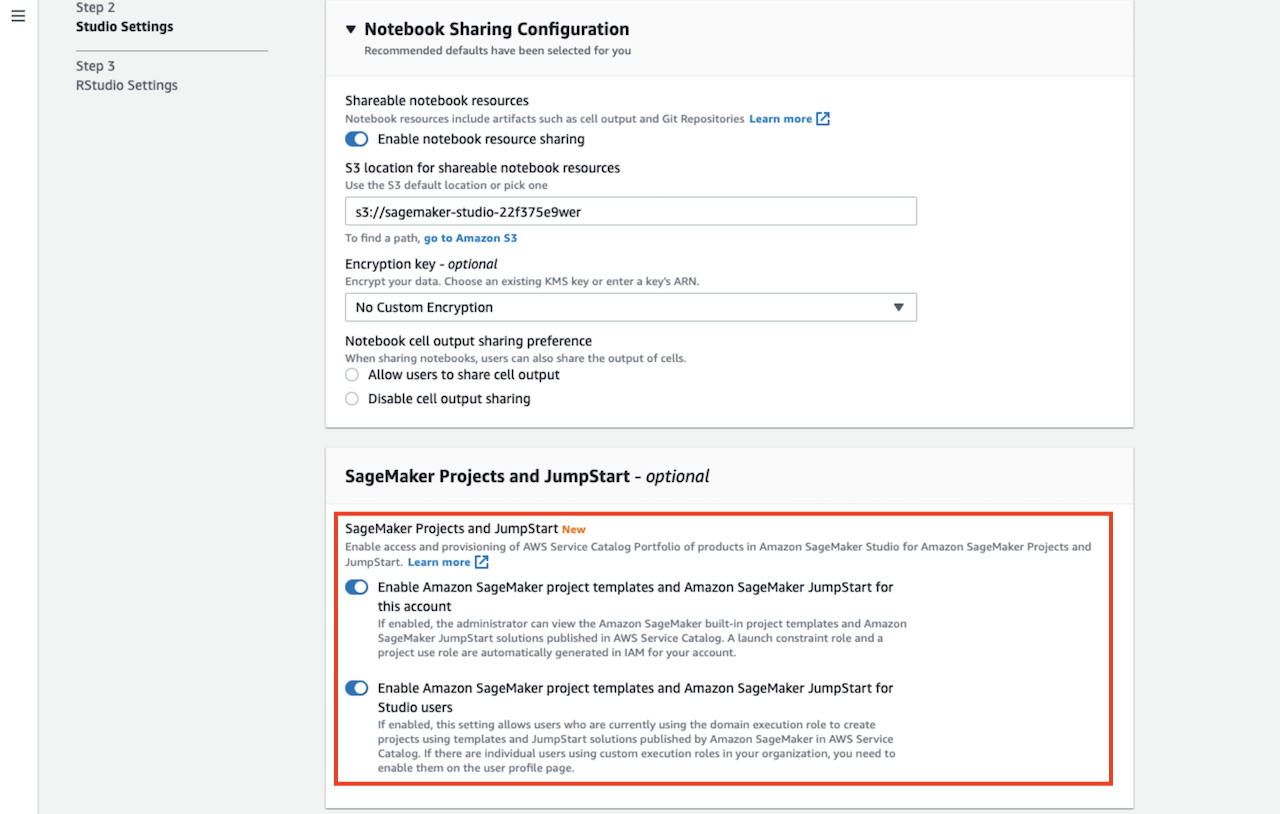
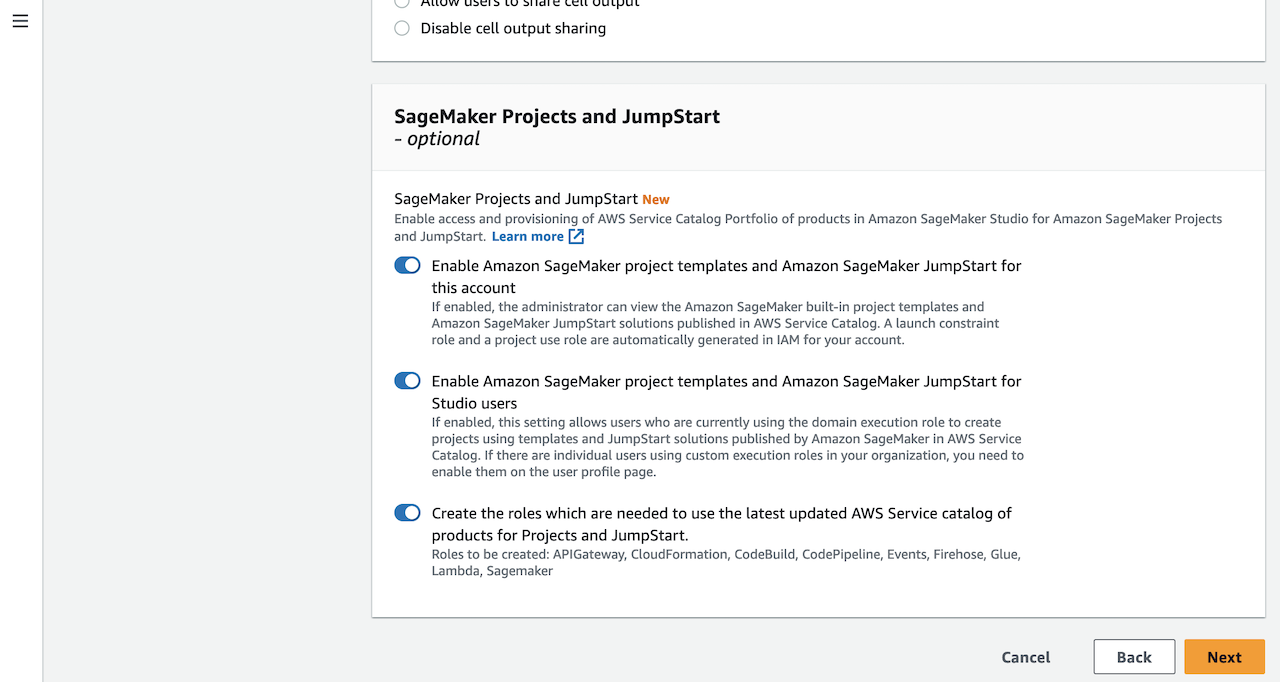
docs(blueprint): translate sagemaker apps instructions (#72)
* docs(blueprint): translate sagemaker apps instructions

* docs(blueprint): fix tiny thing

* docs(blueprint): replace jumpstart activation screenshots

diff --git a/examples/blueprint/apps/README.ko.md b/examples/blueprint/apps/README.ko.md
@@ -1,6 +1,30 @@
 [[English](README.md)] [[한국어](README.ko.md)]
 
 # 애플리케이션
+## SageMaker Studio 프로젝트
+SageMaker Studio에서 프로젝트를 활성화 해야 합니다.
+![aws-sm-svccatal-disabled](../../../images/aws-sm-svccatal-disabled.png)
+![aws-sm-enable-jumpstart](../../../images/aws-sm-enable-jumpstart.png)
+
+## Amazon SageMaker에서 허깅페이스 트랜스포머(Huggingface Transformers) 사용하기
+SageMaker 노트북 인스턴스가 구동되었다면, 여러 분은 AWS 관리 콘솔의 SageMaker 서비스 페이지에서 JupyterLab 또는 Jupyter notebook을 열고 접속할 수 있습니다. 이 예제에서는 Amazon SageMaker에서 처음으로 허깅페이스 트랜스포머 예제를 실행할 때 필요한 자원을 모두 배포할 것입니다. 먼저 아래와 같이 저장소를 여러 분의 노트북 작업환경에 복사합니다. 이제 여러 분은 보다 예제 노트북에 접근할 수 있습니다.
+
+![sagemaker-notebook-huggingface-getting-started](../../../images/sagemaker-notebook-huggingface-getting-started.png)
+
+## Amazon Personalize
+[Amazon Personalize](https://aws.amazon.com/personalize/)는 기계 학습에 대한 전문지식 없더라도 Amazon.com의 실시간 개인화 추천에서 사용하는 기계 학습과 같은 기계 학습 기반의 애플리케이션을 만들 수 있도록 해 줍니다.
+
+Amazon Personalize를 사용하면 개발자가 특정 제품 추천, 개인화된 제품 순위 재지정, 맞춤형 다이렉트 마케팅 등 다양한 개인화 경험을 제공할 수 있는 애플리케이션을 쉽게 구축할 수 있습니다. Amazon Personalize는 엄격한 정적 규칙 기반 추천 시스템을 넘어 사용자 지정 ML 모델을 교육, 조정 및 배포하여 소매, 미디어 및 엔터테인먼트와 같은 업계의 고객에게 고도로 맞춤화된 추천을 제공하는 완전 관리형 기계 학습 서비스입니다.
+SageMaker 노트북 인스턴스가 시작된 후 AWS 관리 콘솔의 SageMaker 서비스 페이지에서 JupyterLab 또는 Jupyter 노트북을 열고 접속할 수 있습니다. 다음은 Amazon Personalize로 첫 번째 캠페인을 구축하는 데 필요한 모든 리소스를 배포하는 이 예입니다. 제공된 노트북은 자체 데이터로 자체 모델을 구축하기 위한 템플릿 역할도 할 수 있습니다. 이 저장소는 여러 분의 실행 환경에 복제되므로 이 접근 방식을 통하여 추가적인 고급 노트북 탐색도 할 수 있습니다. 이 자습서에서는 Amazon Personalize를 사용하여 사용자 지정 데이터 세트, 모델 및 추천 캠페인을 생성하기 위한 환경 구축 과정을 안내합니다. 아래 단계에서는 자체 추천 모델을 구축하고 개선한 다음 모든 리소스를 정리하여 원치 않는 요금이 발생하지 않도록 하는 프로세스를 간략하게 설명합니다. 이제 실습을 수행하려면 아래의 순서를 따라하시길 바랍니다.
+
+1. `1.Building_Your_First_Campaign.ipynb` - Guides you through building your first campaign and recommendation algorithm.
+2. `2.View_Campaign_And_Interactions.ipynb` - Showcase how to generate a recommendation and how to modify it with real time intent.
+3. `Cleanup.ipynb` - Deletes anything that was created so you are not charged for additional resources.
+
+여러 분은 /notebooks 폴더에서 Jupyter 노트북을 다운로드할 수 있습니다. 여기에 있는 실습이 오래 되었거나 잘 동작하지 않는다면 [원본 저장소](https://github.com/aws-samples/amazon-personalize-samples)를 방문하여 업데이트를 확인하십시오.
+
+실습을 마치면 AWS 리소스를 정리해야 합니다. 'Cleanup.ipynb' 노트북의 지침에 따라 SageMaker 노트북을 통해 만든 리소스를 제거합니다. 그런 다음 SageMaker 및 AWS 인프라스트럭처를 삭제할 수 있습니다.
+
 ## 점프스타트 (JumpStart)
 Amazon SageMaker JumpStart는 ML 여정을 가속화하는 데 도움이 될 수 있는 기계 학습(ML) 허브입니다. SageMaker JumpStart를 사용하면 모델 허브에서 사전 훈련된 모델이 포함된 기본 제공 알고리즘에 액세스하여 사전 훈련된 기초 모델로 문서 요약 및 이미지 생성과 같은 태스크를 수행하고 사전 구축된 솔루션으로 일반적인 사용 사례를 해결할 수 있습니다. 또한 ML 모델 및 노트북을 포함한 ML 아티팩트를 조직 내에서 공유하여 ML 모델 구축 및 배포를 가속화할 수 있습니다. 보다 자세한 내용은 [Amazon SageMaker JumpStart](https://aws.amazon.com/ko/sagemaker/jumpstart/) 웹사이트를 참고하시기 바랍니다.
 

diff --git a/examples/blueprint/apps/README.md b/examples/blueprint/apps/README.md
@@ -3,7 +3,7 @@
 # Applications
 ## SageMaker Studio Projects
 ![aws-sm-svccatal-disabled](../../../images/aws-sm-svccatal-disabled.png)
-![aws-sm-svccatal-enabled](../../../images/aws-sm-svccatal-enabled.png)
+![aws-sm-enable-jumpstart](../../../images/aws-sm-enable-jumpstart.png)
 
 ## Huggingface Transformers with Amazon SageMaker
 After a SageMaker notebook instance is launched, you can access and open a JupyterLab or Jupyter notebook in the sagemaker service page of AWS management console. This example that will deploy all the resources you need to run your first hugging face transformers example with Amazon SageMaker. This repository is cloned into the environment so you can explore the more advanced notebooks with this approach as well.
@@ -25,7 +25,7 @@ This tutorial will walk you through building an environment to create a custom d
 
 You can download the Jupyter notebooks from the /notebooks folder. If you have any issues with any of the content here please visit the original [repo](https://github.com/aws-samples/amazon-personalize-samples) for updates.
 
-Whne you finishied the hands-on lab, you have to clean up AWS resources. Follow the instructions of `Cleanup.ipynb` notebook to purge the resource that we made through SageMaker notebook. Then, you can try to destroy SageMaker and AWS infrastructure. For more information, please refer to this.
+Whne you finishied the hands-on lab, you have to clean up AWS resources. Follow the instructions of `Cleanup.ipynb` notebook to purge the resource that we made through SageMaker notebook. Then, you can try to destroy SageMaker and AWS infrastructure.
 
 ## JumpStart
 Amazon SageMaker JumpStart is a machine learning (ML) hub that can help you accelerate your ML journey. With SageMaker JumpStart, you can access pretrained models, including foundation models, to perform tasks like article summarization and image generation. Pretrained models are fully customizable for your use case with your data, and you can easily deploy them into production with the user interface or SDK. In addition, you can access prebuilt solutions to solve common use cases, and share ML artifacts, including ML models and notebooks, within your organization to accelerate ML model building and deployment. For more details, please visit this [developer guide for SageMaker JumpStart](https://docs.aws.amazon.com/sagemaker/latest/dg/studio-jumpstart.html).
